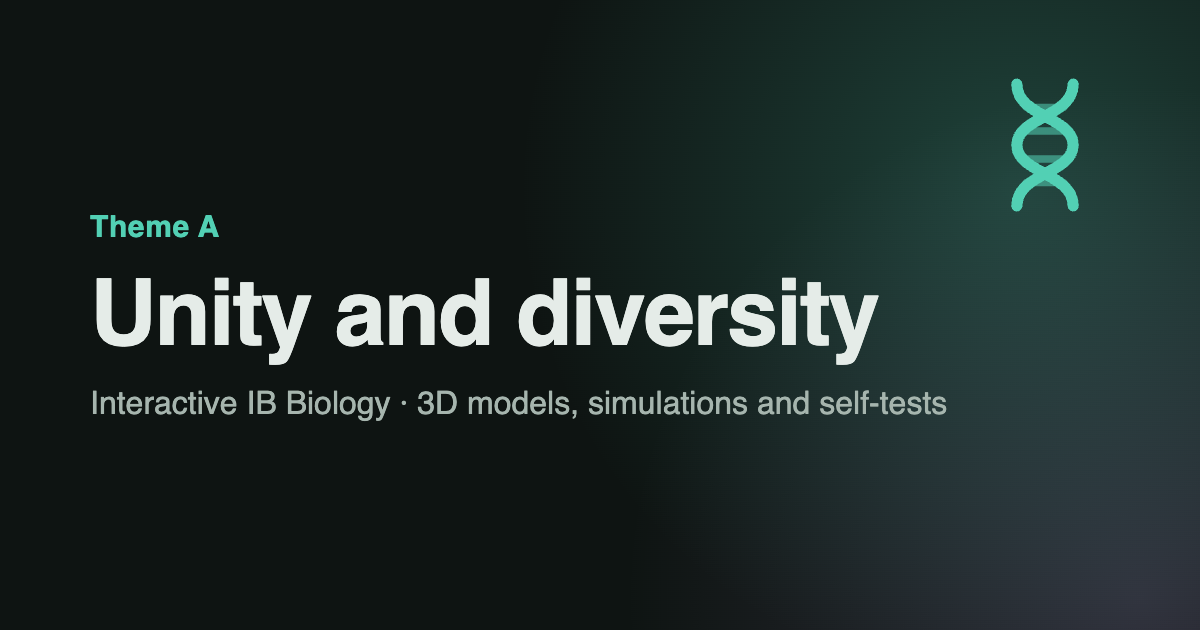
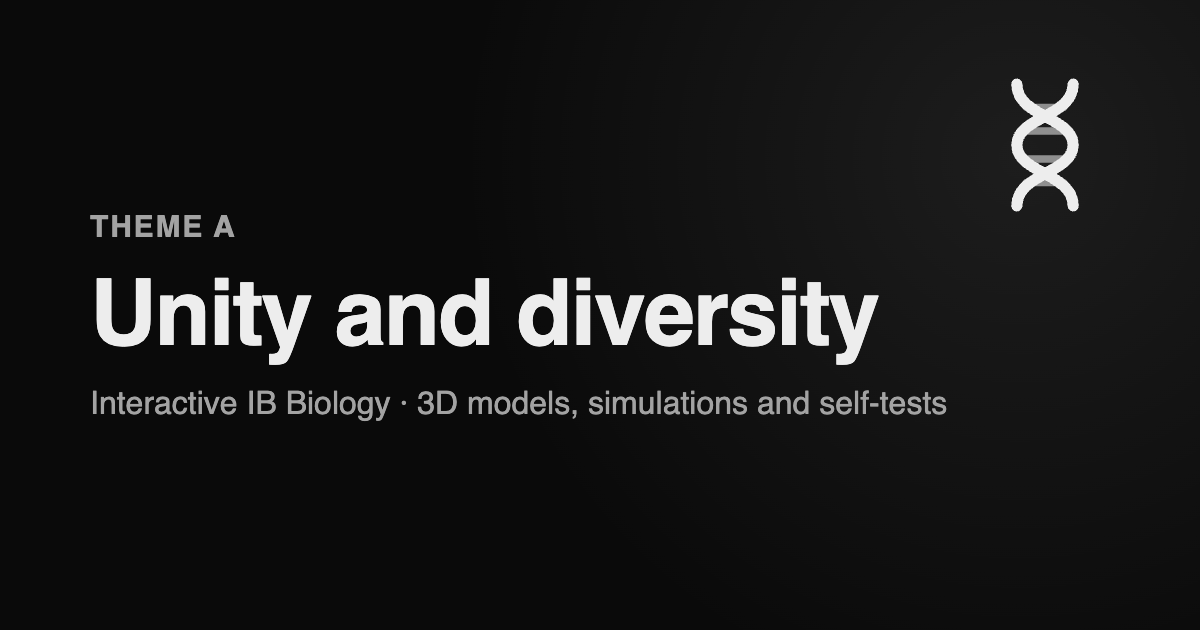
Monochrome redesign and interaction polish
Interface is now black, white and neutral grey; figures, simulations and 3D models keep their meaning-carrying colours.
- AHL marked by a solid side bar and an inverted badge instead of purple
- Quiz: fix wrong answers keeping the selected style; right = solid outline + tick, wrong = dashed + cross
- Buttons press to scale(0.97); hover effects only on fine pointers
- Phone menu uses a drawer curve (opens 320 ms, closes 200 ms) with a fading backdrop
- Settings popover scales in from its button; quiz explanations and flashcard answers fade in
- Neutral favicon, theme colours and share images
- a11y test waits for finite animations before measuring contrast

diff --git a/src/styles/global.css b/src/styles/global.css
@@ -20,13 +20,20 @@ h3 { font-size: var(--step-1); margin-top: var(--space-6); }
 p, ul, ol { margin: 0 0 var(--space-4); }
 li + li { margin-top: var(--space-1); }
 strong { font-weight: 700; color: var(--text); }
-a { color: var(--accent); text-underline-offset: 0.18em; text-decoration-thickness: 1px; }
-a:hover { color: var(--accent-strong); text-decoration-thickness: 2px; }
+a {
+  color: var(--text); text-underline-offset: 0.2em; text-decoration-thickness: 1px;
+  text-decoration-color: var(--border-strong);
+  transition: text-decoration-color 150ms ease;
+}
+@media (hover: hover) and (pointer: fine) {
+  a:hover { text-decoration-color: currentColor; }
+}
 code { font-family: var(--font-mono); font-size: 0.92em; }
 sub, sup { line-height: 0; }
 hr { border: 0; border-top: 1px solid var(--border); margin: var(--space-6) 0; }
 
-:focus-visible { outline: 3px solid var(--focus); outline-offset: 2px; border-radius: 3px; }
+:focus-visible { outline: 2px solid var(--focus); outline-offset: 2px; border-radius: 3px; }
+::selection { background: var(--ink); color: var(--on-ink); }
 
 .visually-hidden {
   position: absolute !important; width: 1px; height: 1px; padding: 0; margin: -1px;
@@ -34,9 +41,9 @@ hr { border: 0; border-top: 1px solid var(--border); margin: var(--space-6) 0; }
 }
 .skip-link {
   position: absolute; left: var(--space-3); top: -4rem; z-index: 100;
-  background: var(--accent); color: var(--on-accent); padding: var(--space-2) var(--space-4); border-radius: var(--radius-s);
+  background: var(--ink); color: var(--on-ink); padding: var(--space-2) var(--space-4); border-radius: var(--radius-s);
 }
-.skip-link:focus { top: var(--space-2); color: var(--on-accent); }
+.skip-link:focus { top: var(--space-2); color: var(--on-ink); }
 
 /* ---------- buttons and form controls ---------- */
 .btn {
@@ -45,17 +52,23 @@ hr { border: 0; border-top: 1px solid var(--border); margin: var(--space-6) 0; }
   font: inherit; font-size: var(--step--1); font-weight: 600; line-height: 1.2;
   color: var(--text); background: var(--surface); border: 1px solid var(--border-strong);
   border-radius: var(--radius-s); cursor: pointer; text-decoration: none;
+  -webkit-tap-highlight-color: transparent; touch-action: manipulation;
+  transition: background-color 150ms ease, border-color 150ms ease, color 150ms ease, transform 160ms var(--ease-out);
 }
-.btn:hover { background: var(--surface-2); color: var(--text); }
-.btn[aria-pressed='true'], .btn.is-active { background: var(--accent-soft); border-color: var(--accent); color: var(--accent-strong); }
-.btn-primary { background: var(--accent); border-color: var(--accent); color: var(--on-accent); }
-.btn-primary:hover { background: var(--accent-strong); border-color: var(--accent-strong); color: var(--on-accent); }
-.btn:disabled { opacity: 0.55; cursor: not-allowed; }
+/* Press feedback: the button visibly gives a little under the pointer. */
+.btn:active:not(:disabled) { transform: scale(0.97); }
+.btn[aria-pressed='true'], .btn.is-active { background: var(--ink-soft); border-color: var(--ink); color: var(--text); }
+.btn-primary { background: var(--ink); border-color: var(--ink); color: var(--on-ink); }
+@media (hover: hover) and (pointer: fine) {
+  .btn:hover { background: var(--surface-2); border-color: var(--text-muted); color: var(--text); }
+  .btn-primary:hover { background: var(--ink-hover); border-color: var(--ink-hover); color: var(--on-ink); }
+}
+.btn:disabled { opacity: 0.45; cursor: not-allowed; }
 .btn-icon { width: 2.5rem; padding: 0; justify-content: center; }
 .btn svg { width: 1.1em; height: 1.1em; flex: none; }
 
-input[type='range'] { width: 100%; accent-color: var(--accent); min-height: 1.75rem; }
-select { font: inherit; color: var(--text); background: var(--surface); border: 1px solid var(--border-strong); border-radius: var(--radius-s); padding: 0.4rem 0.6rem; }
+input[type='range'] { width: 100%; accent-color: var(--ink); min-height: 1.75rem; }
+select { font: inherit; accent-color: var(--ink); color: var(--text); background: var(--surface); border: 1px solid var(--border-strong); border-radius: var(--radius-s); padding: 0.4rem 0.6rem; }
 
 /* ---------- level badges ---------- */
 .badge {
@@ -63,8 +76,9 @@ select { font: inherit; color: var(--text); background: var(--surface); border: 
   font-size: 0.78rem; font-weight: 700; letter-spacing: 0.04em; text-transform: uppercase;
   padding: 0.15em 0.55em; border-radius: 999px; border: 1px solid currentColor; line-height: 1.5; white-space: nowrap;
 }
-.badge-sl { color: var(--accent-strong); background: var(--accent-soft); }
-.badge-ahl { color: var(--ahl); background: var(--ahl-soft); }
+.badge-sl { color: var(--text); background: var(--surface); border-color: var(--border-strong); }
+/* AHL is the inverted badge: it must stand out without colour. */
+.badge-ahl { color: var(--on-ink); background: var(--ink); border-color: var(--ink); }
 
 /* Level filter: hide AHL material when the reader chooses "SL only". */
 :root[data-level='SL'] [data-level-block='AHL'] { display: none !important; }

diff --git a/src/styles/tokens.css b/src/styles/tokens.css
@@ -3,15 +3,26 @@
 :root {
   color-scheme: light dark;
 
-  --bg: light-dark(#f6f8f7, #0e1412);
-  --surface: light-dark(#ffffff, #141c19);
-  --surface-2: light-dark(#edf2ef, #1b2521);
-  --surface-3: light-dark(#e1e9e5, #24302b);
-  --text: light-dark(#14201b, #e5ece8);
-  --text-muted: light-dark(#46554e, #a6b5ae);
-  --border: light-dark(#cfd9d4, #2c3a34);
-  --border-strong: light-dark(#9fb0a8, #4a5c54);
+  /* Interface: black, white and neutral grey only. */
+  --bg: light-dark(#fafafa, #0a0a0a);
+  --surface: light-dark(#ffffff, #121212);
+  --surface-2: light-dark(#f2f2f2, #1a1a1a);
+  --surface-3: light-dark(#e6e6e6, #242424);
+  --text: light-dark(#111111, #ededed);
+  --text-muted: light-dark(#5a5a5a, #a3a3a3);
+  --border: light-dark(#e2e2e2, #262626);
+  --border-strong: light-dark(#bdbdbd, #474747);
+  --ink: light-dark(#111111, #ededed);         /* primary actions, current item, AHL marking */
+  --ink-hover: light-dark(#333333, #ffffff);
+  --ink-soft: light-dark(#ebebeb, #232323);    /* selected background */
+  --on-ink: light-dark(#ffffff, #0a0a0a);
 
+  /* Motion */
+  --ease-out: cubic-bezier(0.23, 1, 0.32, 1);
+  --ease-in-out: cubic-bezier(0.77, 0, 0.175, 1);
+  --ease-drawer: cubic-bezier(0.32, 0.72, 0, 1);
+
+  /* Colours below are for figures, simulations and 3D models only: there they carry meaning. */
   --accent: light-dark(#0b6b5c, #52d0b4);
   --accent-strong: light-dark(#084f44, #8ae3cf);
   --accent-soft: light-dark(#dcf0ea, #12332d);
@@ -25,7 +36,7 @@
   --good-soft: light-dark(#e3f4e5, #15301a);
   --bad: light-dark(#a32020, #ff8f8f);
   --bad-soft: light-dark(#fde8e8, #3a1515);
-  --focus: light-dark(#1556c9, #8cb6ff);
+  --focus: light-dark(#111111, #ededed);
 
   /* Biology colour code used consistently in diagrams and 3D scenes */
   --bio-head: light-dark(#d9822b, #f0a457);      /* phospholipid heads */
@@ -59,7 +70,7 @@
   --radius-s: 6px;
   --radius-m: 10px;
   --radius-l: 16px;
-  --shadow: 0 1px 2px rgb(0 0 0 / 0.06), 0 4px 16px rgb(0 0 0 / 0.06);
+  --shadow: 0 1px 2px rgb(0 0 0 / 0.05), 0 8px 24px rgb(0 0 0 / 0.06);
   --header-h: 3.5rem;
   --sidebar-w: 18rem;
   --measure: 46rem;

diff --git a/tests/e2e/a11y.spec.ts b/tests/e2e/a11y.spec.ts
@@ -18,6 +18,8 @@ for (const scheme of ['light', 'dark'] as const) {
       }
       const quiz = page.locator('[data-quiz]');
       if (await quiz.count()) await quiz.locator('button[type=submit]').click();
+      // Check contrast in the settled state, not halfway through a fade-in.
+      await page.evaluate(() => Promise.all(document.getAnimations().filter((a) => a.effect?.getTiming().iterations !== Infinity).map((a) => a.finished)));
       const results = await new AxeBuilder({ page }).withTags(tags).analyze();
       const summary = results.violations.map((v) => `${v.id} (${v.impact}): ${v.nodes.slice(0, 3).map((n) => n.target.join(' ')).join(' | ')}`);
       expect(summary).toEqual([]);
